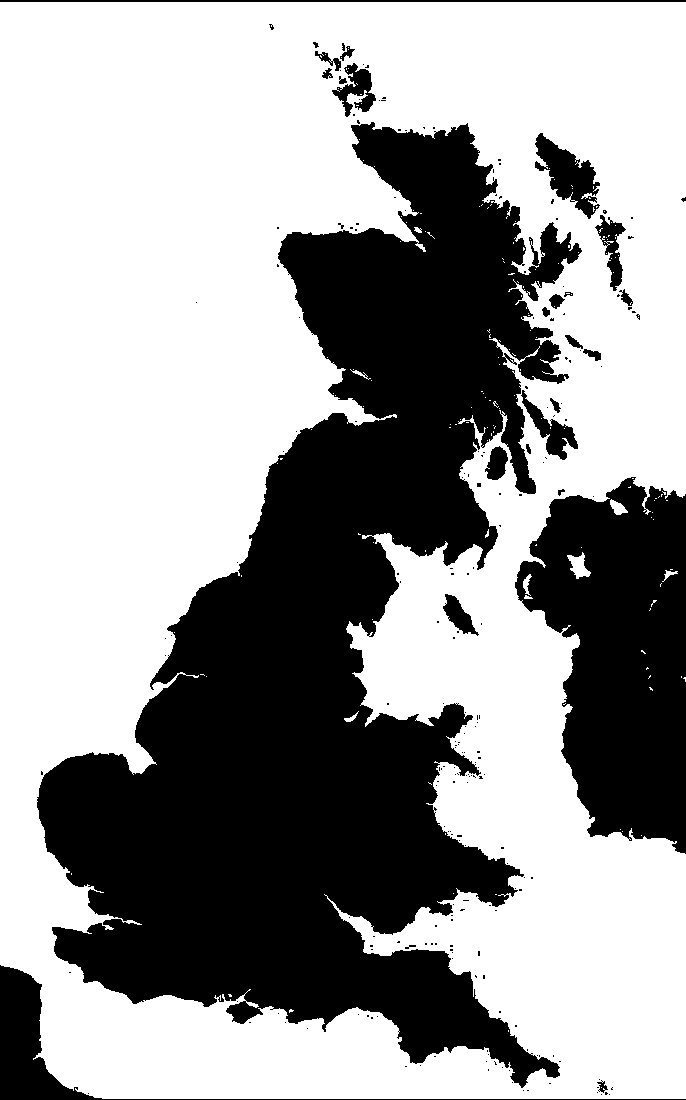
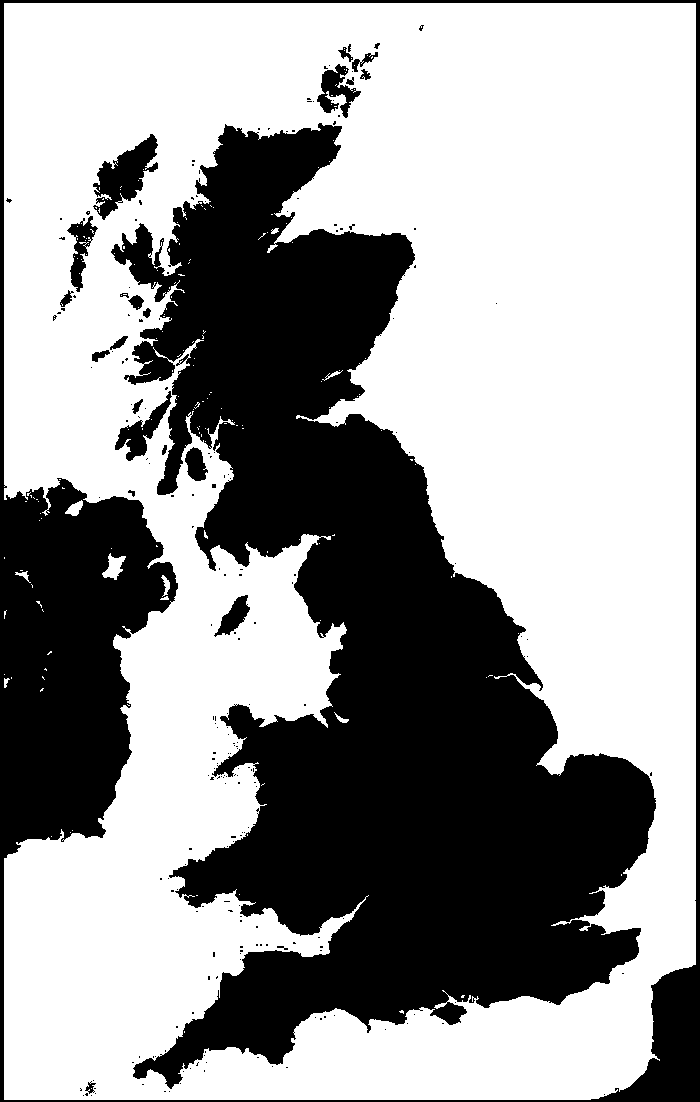
Added a minimap which seems to sort of work. Someone can work on         centering it if they want.

diff --git a/js/Chunk.js b/js/Chunk.js
@@ -10,8 +10,8 @@ function Chunk(x, y) {
     this.draw = false;
     this.boundingBoxes = new Array();
 
-    var nicTex = PIXI.Texture.fromImage("/imgs/nic.png");
-    var bunnyTex = PIXI.Texture.fromImage("/imgs/water.png");
+    var landTex = PIXI.Texture.fromImage("/imgs/terrain/grass.png");
+    var waterTex = PIXI.Texture.fromImage("/imgs/water.png");
 
     this.loadTiles = function(array, blockpos) {
         for(var x = 0; x < this.sizew; x++) {
@@ -26,15 +26,15 @@ function Chunk(x, y) {
         for(var i = 0; i < this.tiles.length; i++) {
             for(var j = 0; j < this.tiles[i].length; j++) {
                 if(this.tileMap[i][j] === 1) {
-                    this.tiles[i][j] = new PIXI.Sprite(nicTex);
+                    this.tiles[i][j] = new PIXI.Sprite(landTex);
                 } else {
-                    this.tiles[i][j] = new PIXI.Sprite(bunnyTex);
+                    this.tiles[i][j] = new PIXI.Sprite(waterTex);
                 }
                 
                 this.tiles[i][j].anchor.x = 0.5;
                 this.tiles[i][j].anchor.y = 0.5;
                 this.tiles[i][j].position.x = dude.position.x + i*TILE_WIDTH - (dude.gamePosition.x - this.gamePosition.x);
-                this.tiles[i][j].position.y = dude.position.y + j*TILE_HEIGHT - ((dude.gamePosition.y) - this.gamePosition.y);
+                this.tiles[i][j].position.y = dude.position.y + j*TILE_HEIGHT - (dude.gamePosition.y - this.gamePosition.y);
                 stage.addChild(this.tiles[i][j]);
             }
         }

diff --git a/js/main.js b/js/main.js
@@ -1,6 +1,7 @@
 $(document).ready(init);
 
 var currentLocation;
+var minimap;
 
 function init() {
     // Get Current location
@@ -8,6 +9,10 @@ function init() {
         // convert lon/lat into OS eastern northern coord
         position = OsGridRef.latLongToOsGrid(position.coords);
         currentLocation = new Point(Math.floor(position.easting / 1000), 1100 - Math.floor(position.northing / 1000));
+
+        // Get up minimap!
+        minimap = new Minimap();
+        minimap.init();
         main();
     });
 }
@@ -83,10 +88,10 @@ function main() {
 
     var camera = new BoundingBox(dude.position.x, dude.position.y, WIDTH, HEIGHT);
     dude.gamePosition = new Point(TILE_WIDTH*currentLocation.x, TILE_HEIGHT*currentLocation.y);
+    
     //Centre dude!
     dude.position.x = WIDTH / 2;
     dude.position.y = HEIGHT / 2;
-
     
     //reads a file and converts into array, then sets up the tiles
     convert("/res/britain.txt", function(myLevel) {
@@ -167,8 +172,13 @@ function main() {
 
         update();
 
-        // render the stage   
+        // render the main stage   
         renderer.render(stage);
+
+        // render the minimap stage
+        var mapPos = new Point(Math.floor(dude.gamePosition.x / 64), (dude.gamePosition.y / 64));
+        minimap.render(mapPos);
+        console.log(mapPos);
 
         // signal end of frame to timer.
         timer.tick();

diff --git a/js/Minimap.js b/js/Minimap.js
@@ -1,0 +1,24 @@
+//TODO unfortunately cannot have two PIXI renderers...
+function Minimap() {
+    this.canvas = document.getElementById('minimap');
+    var ctx = this.canvas.getContext('2d');
+    this.texture = new Image();
+    
+    this.WIDTH;
+    this.HEIGHT;
+    this.startx = 0;
+    this.starty = 0;
+    
+    this.init = function() {
+        this.texture.src = "/res/minimap.png";
+        this.texture.onload = function() {
+            ctx.drawImage(this, 400, 600, 200, 200, 0, 0, 200, 200);
+        }
+
+    }
+
+    this.render = function(pos) {
+        ctx.clearRect(0, 0, this.canvas.width, this.canvas.height);
+        ctx.drawImage(this.texture, pos.x - 150, pos.y - 100, 200, 200, 0, 0, 200, 200);
+    }
+}

diff --git a/index.html b/index.html
@@ -17,9 +17,11 @@
         <script src="/js/Npc.js"></script>
         <script src="/js/funcyFunctions.js"></script>
         <script src="/js/Chunk.js"></script>
+        <script src="/js/Minimap.js"></script>
         <script src="/js/main.js"></script>
        
         <!--The canvas' container div (to make it easier to style)-->
         <div id="canvainer"></div>
+        <canvas id="minimap" width="200" height="200"></canvas>
     </body>
 </html>

diff --git a/style/style.css b/style/style.css
@@ -16,8 +16,7 @@ html, body {
 	font-size: 50px;
 	text-shadow: -1px -2px rgba(0, 0, 0, 5);
 }*/
-#canvainer {
-    
+#canvainer {    
     height:auto;
     width:auto;
     background:#eee;
@@ -29,5 +28,8 @@ html, body {
     overflow:auto;
  
     border:6px solid #ccc;
-   
+}
+
+#minimap {
+    margin-left: 10px;
 }
